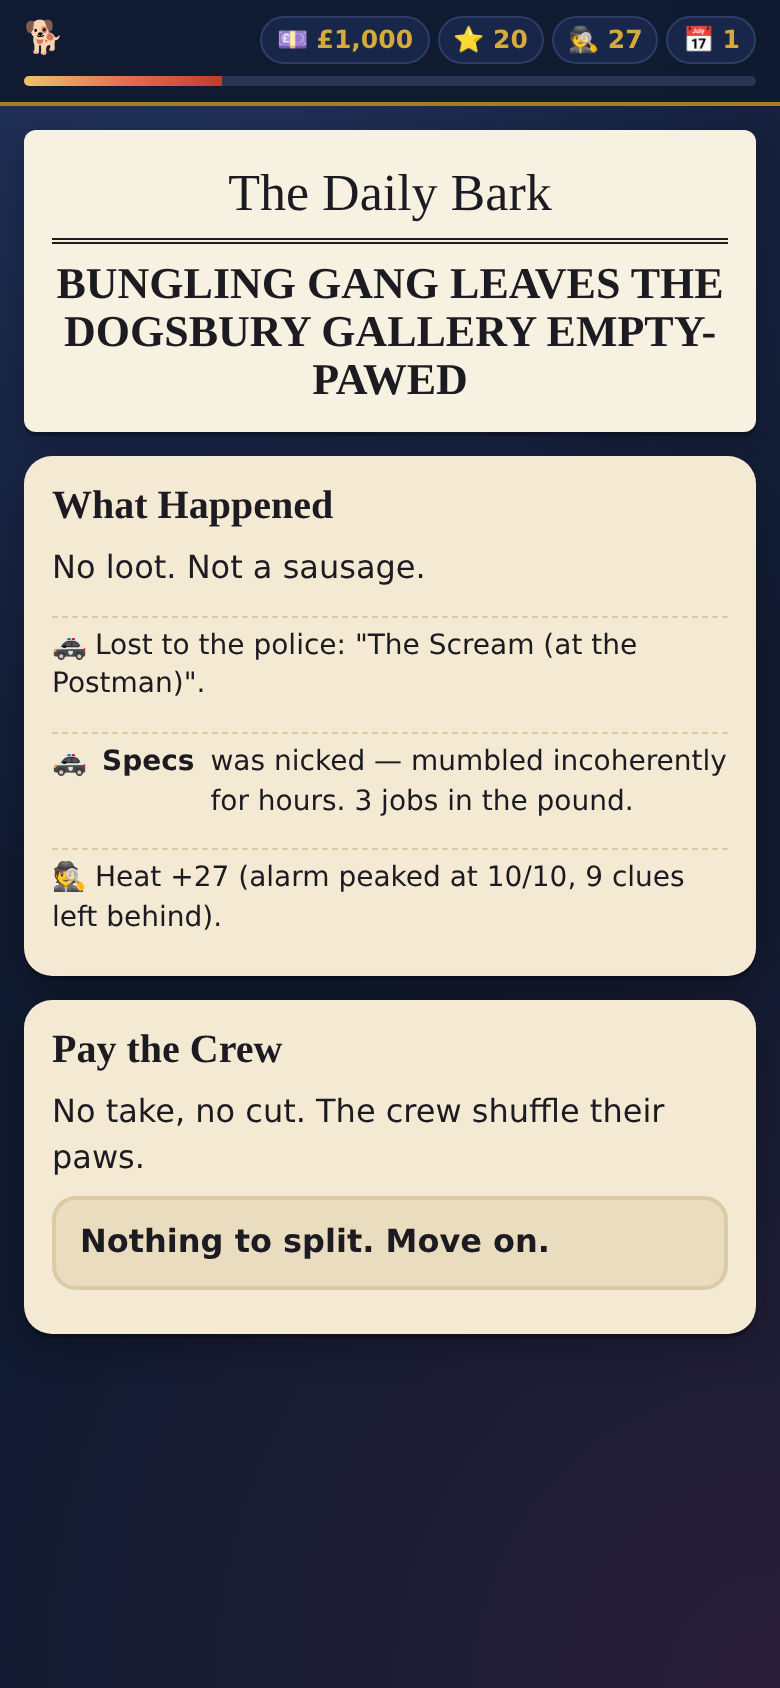
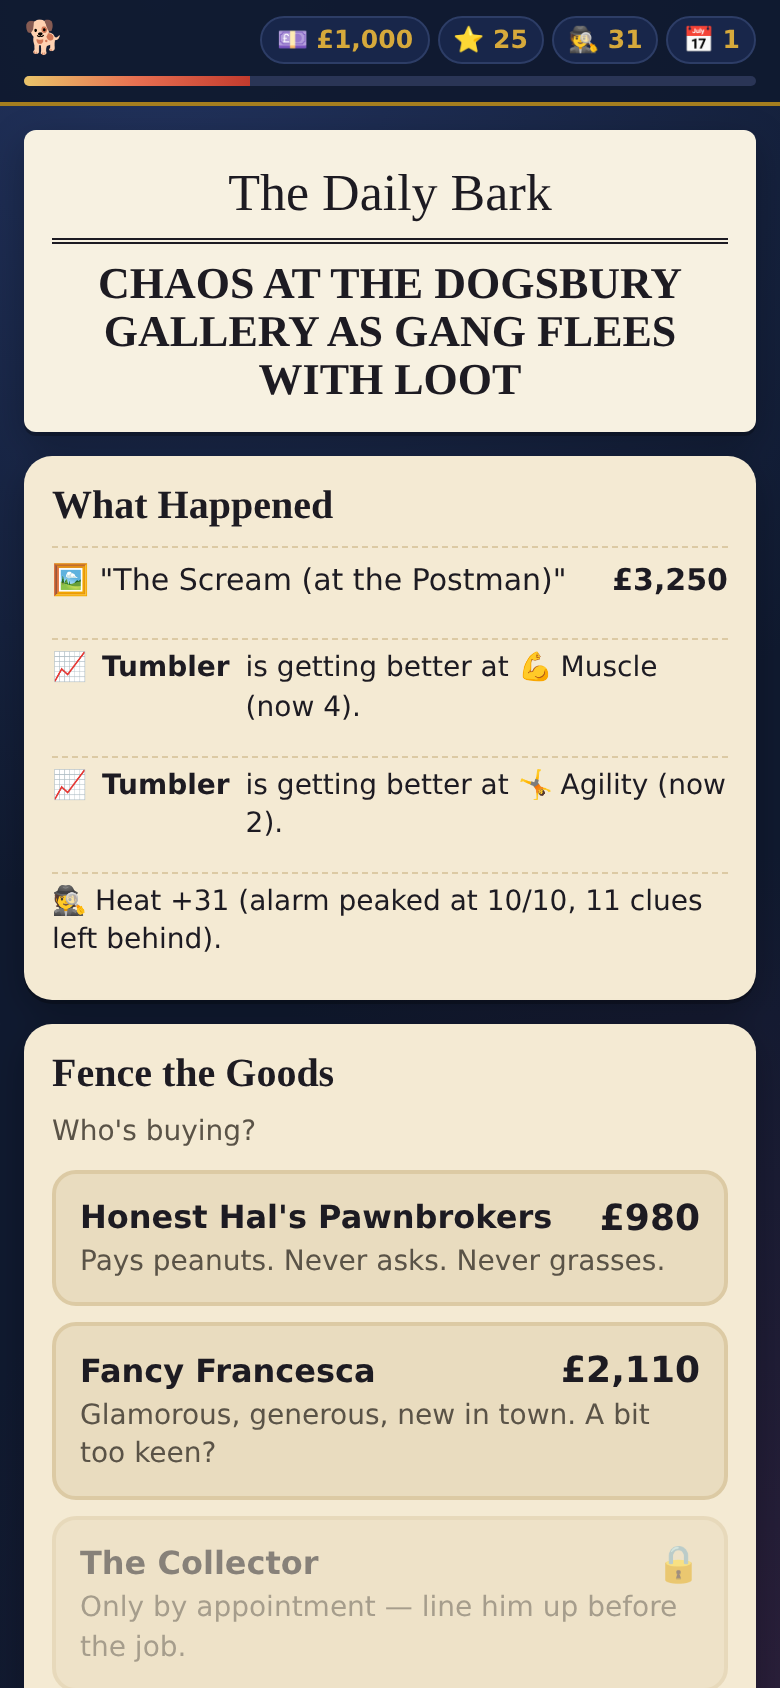
Balance pass: crew progression, slower tier ramp, gentler clues/rep; balance probe + test
Claude-Session: https://claude.ai/code/session_0119DQBJUjuLkFW8ZZge45qz

diff --git a/src/sim.js b/src/sim.js
@@ -36,7 +36,7 @@ export function difficulty(state, job, stage, approachId, kitLeft) {
 }
 
 export function baseOdds(skill, diff) {
-  return clamp(0.55 + 0.12 * (skill - diff), 0.05, 0.95);
+  return clamp(0.6 + 0.11 * (skill - diff), 0.05, 0.95);
 }
 
 function clamp(v, a, b) {
@@ -67,7 +67,7 @@ export function odds(state, job, stage, approachId, dog, ctx = {}) {
   if (q.includes('napper') && ['exit', 'getaway'].includes(stage.kind)) p -= 0.1;
   if (q.includes('glory')) p += 0.08;
   const load = Object.values(job.plan).filter((p2) => p2 && p2.dog === dog.id).length;
-  if (load > 2) p -= 0.05 * (load - 2);
+  if (load > 3) p -= 0.05 * (load - 3);
   p += ctx.bonus || 0;
   return { p: clamp(p, 0.03, 0.97), skill, diff };
 }
@@ -78,7 +78,7 @@ export function oddsKnown(dog, approachId) {
 }
 
 export function carryCapacity(crew, kit) {
-  let c = 2;
+  let c = 3;
   for (const d of crew) c += Math.floor(skillOf(d, 'muscle') / 2) + (hasSpecial(d, 'carry') ? 2 : 0);
   if (kit.bags > 0) c += 2;
   if (kit.van > 0) c += 3;
@@ -113,6 +113,7 @@ export function simulate(state, job, rng) {
     nextBonus: 0,
     learned: {},
     acted: new Set(),
+    practised: {},
   };
   // Tipped undercover dogs stay "active" during the job; they only reveal themselves after.
   const active = () => crew.filter((d) => !ctx.exposed.includes(d.id) && !ctx.captured.some((c) => c.id === d.id) && !ctx.runners.some((r) => r.id === d.id));
@@ -223,7 +224,7 @@ export function simulate(state, job, rng) {
       if (dog.quirks.includes('postmen')) learn(dog, 'quirks', 'postmen');
     }
     let clues = ok ? a.clues : 1;
-    if (dog.quirks.includes('sheds')) { clues += 1; learn(dog, 'quirks', 'sheds'); }
+    if (dog.quirks.includes('sheds') && rng.chance(0.5)) { clues += 1; learn(dog, 'quirks', 'sheds'); }
     if (dog.quirks.includes('glory')) { clues += 1; learn(dog, 'quirks', 'glory'); }
     if (hasSpecial(dog, 'clean')) clues -= 1;
     if (job.time === 'day' && ['charm', 'disguise'].includes(a.skill)) clues += 1; // witnesses
@@ -232,7 +233,10 @@ export function simulate(state, job, rng) {
     if (dog.quirks.includes('steel') && ctx.alarm >= 4) learn(dog, 'quirks', 'steel');
     if (dog.quirks.includes('pack')) learn(dog, 'quirks', 'pack');
     const line = rng.chance(0.55) ? say(dog, ok ? 'ok' : 'fail') : null;
-    if (ok) ctx.lastOk = approachId;
+    if (ok) {
+      ctx.lastOk = approachId;
+      (ctx.practised[dog.id] ||= []).push(a.skill);
+    }
     beat({ kind: ok ? 'ok' : 'fail', stage: stage.id, dog: dog.id, approach: approachId, tag, p, roll, text, line });
     addAlarm(noise, stage.id);
     return ok;
@@ -340,11 +344,11 @@ export function simulate(state, job, rng) {
         beat({ kind: good ? 'good' : 'chaos', stage: stage.id, text: rng.pick(good ? CHAOS.good : CHAOS.bad) });
         if (good) { ctx.alarm = Math.max(0, ctx.alarm - 1); ctx.nextBonus = 0.15; } else { addAlarm(1, stage.id); ctx.nextBonus = -0.1; }
       }
-      const b = bestFor(stage, [approach], extra + 1) || bestFor(stage, [], extra + 1);
+      const b = bestFor(stage, [approach], extra + 0.5) || bestFor(stage, [], extra + 0.5);
       if (b) {
         const again = b.approach === approach;
         beat({ kind: 'improv', stage: stage.id, dog: b.dog.id, text: again ? `No other way through. ${shortName(b.dog)} has another go.` : `${shortName(b.dog)} improvises: ${APPROACHES[b.approach].label.toLowerCase()}!` });
-        ok = attempt(stage, b.approach, b.dog, extra + 1, 'improv');
+        ok = attempt(stage, b.approach, b.dog, extra + 0.5, 'improv');
         if (!ok) dog = b.dog;
       }
     }
@@ -510,6 +514,7 @@ export function simulate(state, job, rng) {
     crew: crewIds,
     kitUsed: ctx.kitUsed,
     learned: ctx.learned,
+    practised: ctx.practised,
     heatGain,
   };
 }

diff --git a/src/engine.js b/src/engine.js
@@ -22,7 +22,7 @@ export function newGame(seed = Date.now() % 1e9, name = 'The Guv\'nor') {
     phase: 'plan', // plan | heist | aftermath | over
     mastermind: name,
     cash: START_CASH,
-    rep: 20,
+    rep: 25,
     heat: 0,
     dogs: {},
     pub: [],
@@ -76,6 +76,16 @@ export function refreshPub(state, rng = rngOf(state)) {
     const d = genDog(state, rng, { quality, undercover });
     state.dogs[d.id] = d;
     pub.push(d.id);
+  }
+  // There's always some wide-eyed rookie who'll work for peanuts.
+  if (!pub.some((id) => state.dogs[id].fee <= 60)) {
+    const r = genDog(state, rng, { quality: 0 });
+    r.archetype = 'rookie';
+    r.catchphrase = 'Is this... is this a real heist? Like, a proper one?';
+    r.fee = 40;
+    r.minRep = 0;
+    state.dogs[r.id] = r;
+    pub[pub.length - 1] = r.id;
   }
   state.pub = pub;
 }
@@ -405,6 +415,18 @@ export function resolveHeist(state) {
       if (L.undercover) d.known.undercover = true;
     }
   }
+  const rng = rngOf(state);
+  const improved = [];
+  for (const [id, skills] of Object.entries(r.practised || {})) {
+    const d = state.dogs[id];
+    for (const sk of new Set(skills)) {
+      if (d.skills[sk] < 5 && rng.chance(0.35)) {
+        d.skills[sk] += 1;
+        d.known.skills[sk] = true;
+        improved.push({ id, skill: sk });
+      }
+    }
+  }
   for (const c of r.captured) {
     const d = state.dogs[c.id];
     d.status = 'pound';
@@ -430,6 +452,7 @@ export function resolveHeist(state) {
   const securedValue = r.secured.reduce((s, id) => s + job.loot.find((l) => l.id === id).value, 0);
   state.after = { step: r.secured.length ? 'fence' : 'pay', securedValue, received: 0, fence: null, sting: false, cut: null, grade: null, repDelta: 0 };
   state.after.headline = headline(state);
+  state.after.improved = improved;
   state.phase = 'aftermath';
   return done('The dust settles.');
 }
@@ -500,17 +523,17 @@ export function gradeJob(state) {
   const parts = {};
   parts.loot = Math.round((35 * a.securedValue) / total);
   parts.fence = a.securedValue ? Math.round((15 * a.received) / a.securedValue) : 0;
-  parts.stealth = r.alarmMax === 0 ? 20 : r.alarmMax < 4 ? 12 : r.alarmMax < 7 ? 6 : 0;
+  parts.stealth = r.alarmMax === 0 ? 20 : r.alarmMax < 3 ? 14 : r.alarmMax < 6 ? 8 : r.alarmMax < 9 ? 3 : 0;
   parts.crew = r.crew.length ? Math.round((15 * r.escaped.length) / r.crew.length) : 0;
-  parts.clues = Math.max(0, 10 - 2 * r.clues);
+  parts.clues = Math.max(0, 10 - r.clues);
   parts.pay = (a.cut ?? 0) >= 30 ? 5 : (a.cut ?? 0) >= 15 ? 2 : 0;
   if (!a.securedValue) { parts.stealth = Math.min(parts.stealth, 5); parts.pay = 0; }
   const score = Object.values(parts).reduce((s, v) => s + v, 0);
-  const letter = score >= 95 ? 'S' : score >= 80 ? 'A' : score >= 65 ? 'B' : score >= 45 ? 'C' : score >= 25 ? 'D' : 'F';
+  const letter = score >= 93 ? 'S' : score >= 78 ? 'A' : score >= 62 ? 'B' : score >= 45 ? 'C' : score >= 28 ? 'D' : 'F';
   return { score, letter, parts };
 }
 
-const REP_FOR = { S: 14, A: 9, B: 5, C: 2, D: -3, F: -7 };
+const REP_FOR = { S: 14, A: 9, B: 6, C: 3, D: -1, F: -4 };
 function finishGrade(state) {
   const a = state.after;
   const g = gradeJob(state);

diff --git a/src/data.js b/src/data.js
@@ -300,12 +300,12 @@ export const KIT = {
 export const APPROACHES = {
   // ---- Entry
   e_pick: { label: 'Pick the tradesman\'s door', skill: 'locks', mod: 0, noise: 0, failNoise: 2, clues: 0, kitBonus: 'lockpicks', ok: '{d} works the pins. Click. In.', fail: '{d} snaps a pick in the lock. The door rattles.' },
-  e_charm: { label: 'Sweet-talk the doorman', skill: 'charm', mod: 1, noise: 0, failNoise: 2, clues: 1, ok: '{d} chats up the doorman about the weather. Waved straight through.', fail: 'The doorman isn\'t buying it. He reaches for his whistle.' },
+  e_charm: { label: 'Sweet-talk the doorman', skill: 'charm', mod: 0, noise: 0, failNoise: 2, clues: 1, ok: '{d} chats up the doorman about the weather. Waved straight through.', fail: 'The doorman isn\'t buying it. He reaches for his whistle.' },
   e_staff: { label: 'Stroll in as staff', skill: 'disguise', mod: -1, noise: 0, failNoise: 2, clues: 0, needKit: 'uniforms', ok: '{d} strolls in wearing a uniform and a clipboard. Nobody blinks.', fail: 'The uniform is two sizes too small. Someone points.' },
   e_skylight: { label: 'Over the roofs, in the skylight', skill: 'agility', mod: 0, noise: 0, failNoise: 3, clues: 0, needKit: 'grapple', ok: '{d} drops through the skylight like a feather.', fail: '{d} drops through the skylight like a sack of spuds.' },
   e_sewer: { label: 'Up through the sewers', skill: 'sneak', mod: -1, noise: 0, failNoise: 1, clues: 0, needIntel: 'blueprints', ok: '{d} pops up through a floor grate. Smells awful. Totally unseen.', fail: 'Wrong tunnel. {d} surfaces in the middle of the lobby.' },
   e_vent: { label: 'Crawl in through the air vents', skill: 'agility', mod: 1, noise: 0, failNoise: 2, clues: 0, needIntel: 'blueprints', ok: '{d} wriggles through the vents and out a grille.', fail: '{d} gets stuck in a vent. The banging echoes.' },
-  e_delivery: { label: 'Pose as a sausage delivery', skill: 'disguise', mod: 1, noise: 0, failNoise: 2, clues: 1, ok: '"Sausages for Mr... Sausage?" It works. Somehow.', fail: 'Nobody ordered sausages. Suspicion is high.' },
+  e_delivery: { label: 'Pose as a sausage delivery', skill: 'disguise', mod: 0, noise: 0, failNoise: 2, clues: 1, ok: '"Sausages for Mr... Sausage?" It works. Somehow.', fail: 'Nobody ordered sausages. Suspicion is high.' },
   e_ram: { label: 'Ram-raid the front window', skill: 'wheels', mod: -2, noise: 5, failNoise: 6, clues: 2, needKit: 'van', ok: '{d} puts the van through the front window. Subtle as a brick.', fail: '{d} misses the window and hits a lamppost. Very loud.' },
   e_insider: { label: 'Inside dog props the door', skill: 'sneak', mod: -3, noise: 0, failNoise: 1, clues: 0, needInsider: true, ok: 'The inside dog props the fire door with a chew toy. Walk right in.', fail: 'The inside dog gets called to the manager\'s office at the worst moment.' },
   // ---- Obstacles

diff --git a/src/ui.js b/src/ui.js
@@ -394,6 +394,7 @@ function aftermathScreen(G) {
   for (const l of loot(r.dropped)) lines.push(`🚓 Lost to the police: ${esc(l.name)}.`);
   for (const c of r.captured) lines.push(`🚓 <b>${esc(shortName(s.dogs[c.id]))}</b> was nicked — ${c.mumbled ? 'mumbled incoherently for hours' : c.talked ? '<b>talked</b>' : 'said nothing'}. ${c.sentence} jobs in the pound.`);
   for (const id of [...r.exposed, ...r.tipped]) lines.push(`👮 <b>${esc(shortName(s.dogs[id]))}</b> was an undercover copper!`);
+  for (const im of a.improved || []) lines.push(`📈 <b>${esc(shortName(s.dogs[im.id]))}</b> is getting better at ${SKILL_INFO[im.skill].icon} ${SKILL_INFO[im.skill].label} (now ${skillOf(s.dogs[im.id], im.skill)}).`);
   lines.push(`🕵 Heat +${r.heatGain} (alarm peaked at ${r.alarmMax}/10, ${r.clues} clue${r.clues === 1 ? '' : 's'} left behind).`);
   h += `<div class="stack mt">${lines.map((l) => `<div class="trait">${l}</div>`).join('')}</div></section>`;
 

diff --git a/src/heists.js b/src/heists.js
@@ -29,7 +29,7 @@ function jobName(rng, venueType, star) {
 }
 
 export function jobTier(state) {
-  return Math.min(3, 1 + Math.floor(state.stats.jobs / 2) + (state.rep >= 60 ? 1 : 0));
+  return Math.min(3, 1 + Math.floor(state.stats.jobs / 3) + (state.rep >= 60 ? 1 : 0));
 }
 
 export function genJob(state, rng) {
